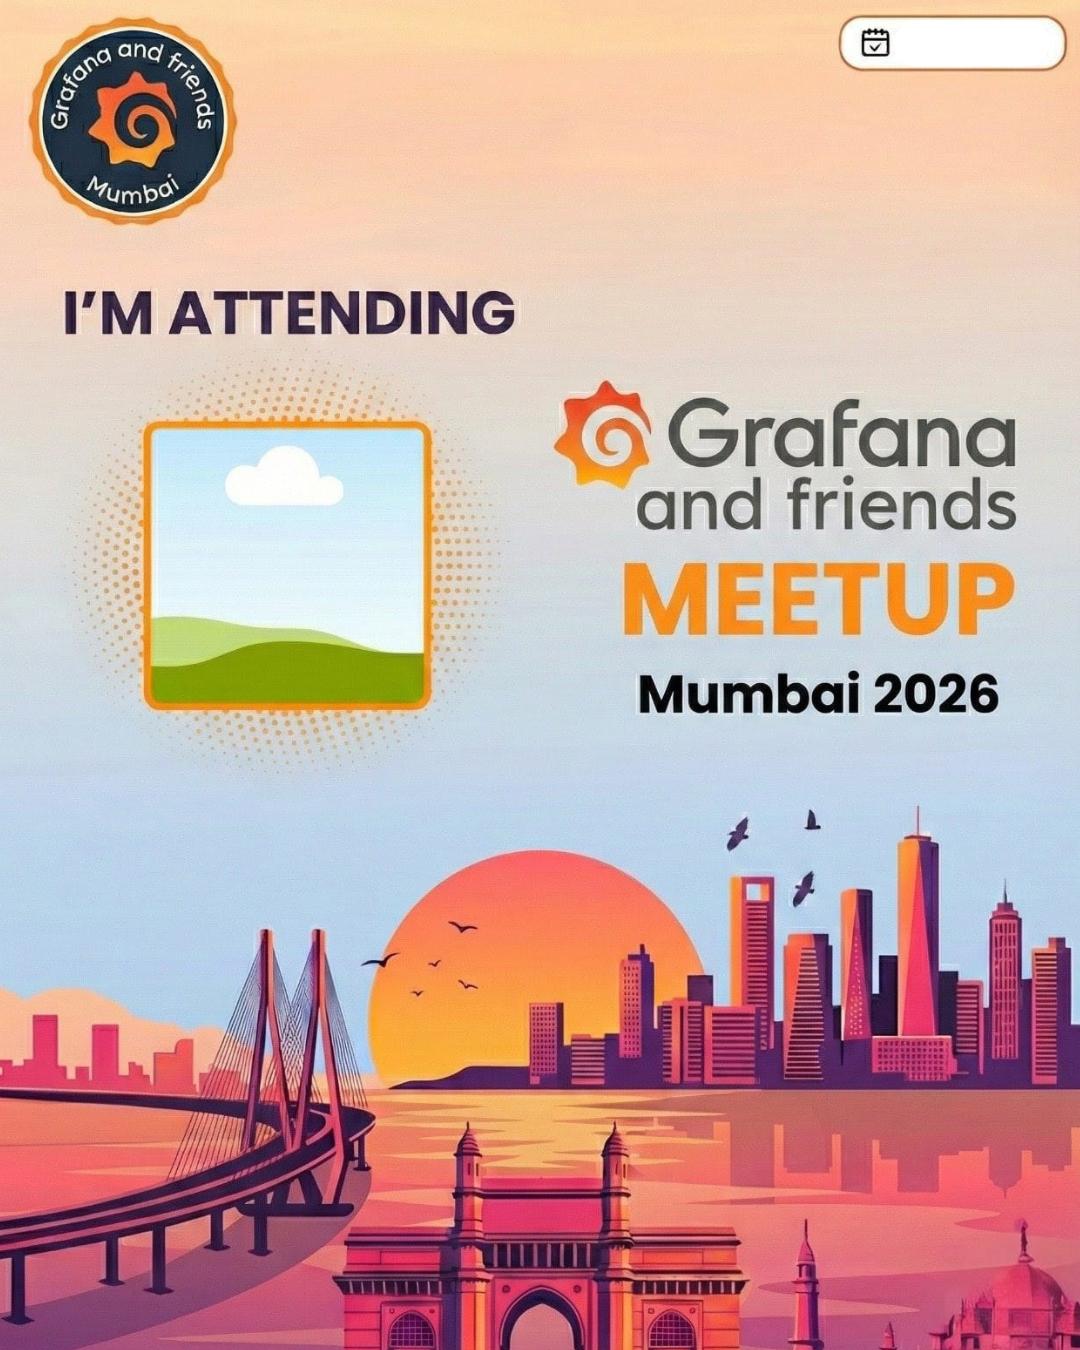
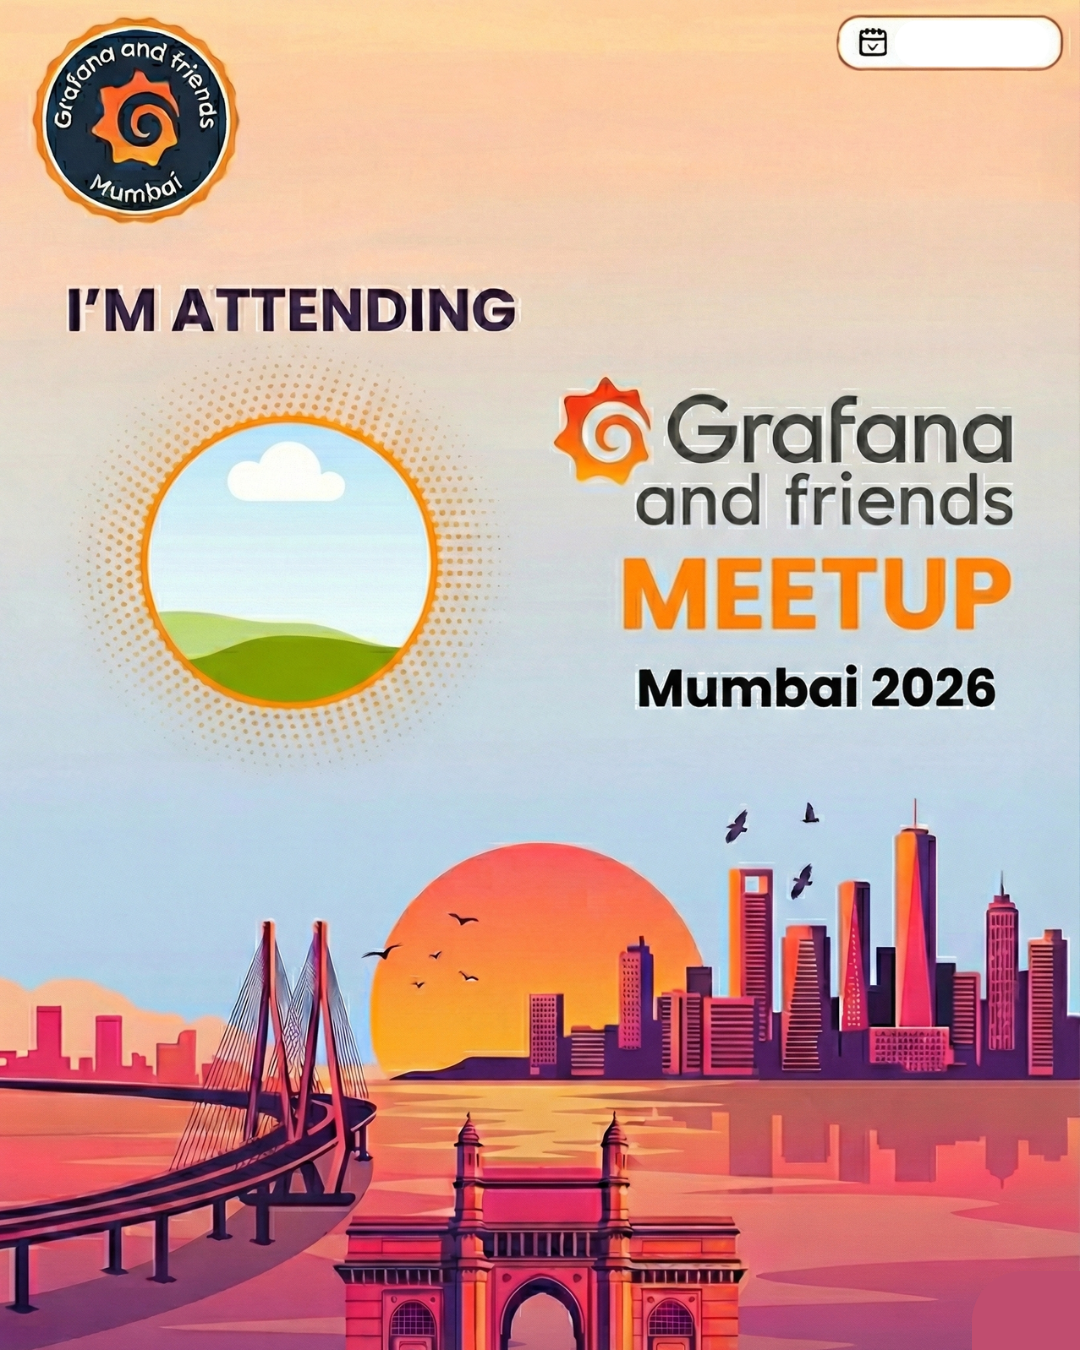
photos added

diff --git a/src/components/sections/core-team.tsx b/src/components/sections/core-team.tsx
@@ -4,12 +4,13 @@ import { Linkedin } from 'lucide-react';
 import Link from 'next/link';
 
 const coreTeam = [
-    { name: 'John Doe', title: 'Lead Organizer', imageId: 'speaker-1', linkedin: '#' },
-    { name: 'Jane Smith', title: 'Community Manager', imageId: 'speaker-2', linkedin: '#' },
-    { name: 'Peter Jones', title: 'Sponsorship Lead', imageId: 'speaker-3', linkedin: '#' },
-    { name: 'Mary Johnson', title: 'Volunteer Coordinator', imageId: 'speaker-4', linkedin: '#' },
-    { name: 'Sam Wilson', title: 'AV Lead', imageId: 'speaker-5', linkedin: '#' },
-    { name: 'Casey Becker', title: 'Social Media Lead', imageId: 'speaker-6', linkedin: '#' },
+    { name: 'Nikita Shinde', title: 'Organizer', imageId: 'core-1', linkedin: '#' },
+    { name: 'Prajwal Deshpande', title: 'Community Manager', imageId: 'core-2', linkedin: '#' },
+    { name: 'Dhruva Wani', title: 'Sponsorship Lead', imageId: 'core-3', linkedin: '#' },
+    { name: 'Krisha Thakkar', title: 'Volunteer Coordinator', imageId: 'core-4', linkedin: '#' },
+    { name: 'Sandesh Deshpande', title: 'AV Lead', imageId: 'core-5', linkedin: '#' },
+    { name: 'Mandar Sarfare', title: 'Social Media Lead', imageId: 'core-6', linkedin: '#' },
+    { name: 'Uddav More', title: 'Social Media Lead', imageId: 'core-7', linkedin: '#' },
 ];
 
 export default function CoreTeamSection() {

diff --git a/src/app/badge/page.tsx b/src/app/badge/page.tsx
@@ -78,10 +78,14 @@ export default function BadgePage() {
         user_image.onload = () => {
           // You might need to adjust these values based on your new badge template
           const size = 300;
-          const x = (canvas.width / 2) - (size / 2) - 265;
-          const y = (canvas.height / 2) - (size / 2) - 100;
+          const x = (canvas.width / 2) - (size / 2) - 250;
+          const y = (canvas.height / 2) - (size / 2) - 105;
 
           ctx.save();
+          ctx.beginPath();
+          ctx.arc(x + size / 2, y + size / 2, size / 2, 0, Math.PI * 2, true);
+          ctx.closePath();
+          ctx.clip();
           
           // Calculate aspect ratio for center crop
           const aspect = user_image.width / user_image.height;
@@ -102,9 +106,11 @@ export default function BadgePage() {
 
           ctx.drawImage(user_image, srcX, srcY, srcW, srcH, x, y, size, size);
 
+          ctx.beginPath();
+          ctx.arc(x + size / 2, y + size / 2, size / 2, 0, Math.PI * 2, true);
           ctx.strokeStyle = '#FFC107'; // Example color
           ctx.lineWidth = 10;
-          ctx.strokeRect(x, y, size, size);
+          ctx.stroke();
           ctx.restore();
 
           if (download) {
